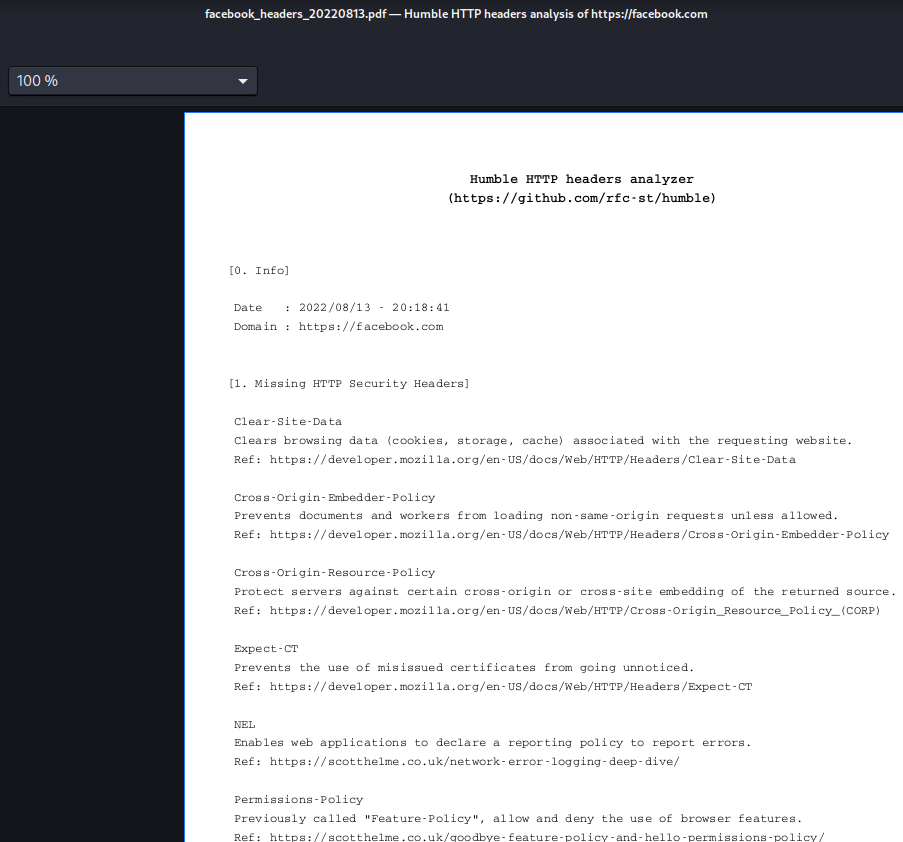
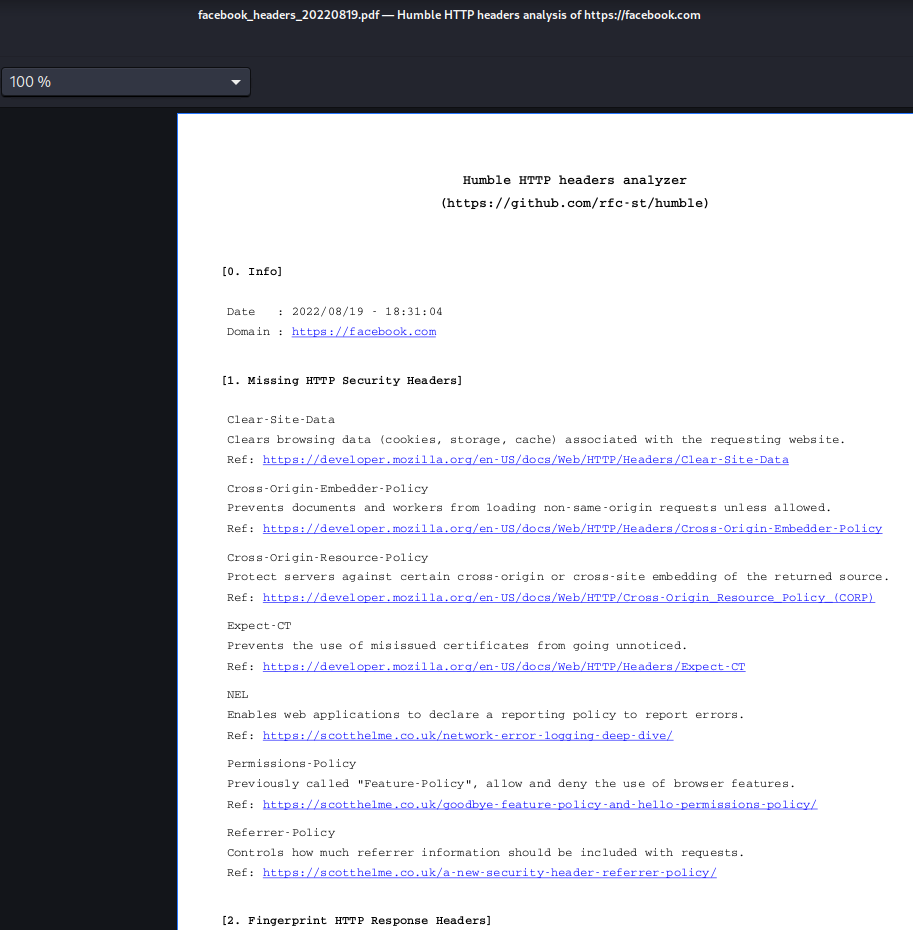
Update PDF sample & screenshot.

diff --git a/README.md b/README.md
@@ -72,7 +72,7 @@ HTTP Headers Analyzer<br />
 <img src="https://github.com/rfc-st/humble/blob/master/screenshots/humble.PNG" alt="Full analysis" width=70% height=70%>
 </p>
 <br />
-.: Analysis exported to PDF. <a href="https://github.com/rfc-st/humble/raw/master/samples/facebook_headers_20220813.pdf">Example.</a><br />
+.: Analysis exported to PDF. <a href="https://github.com/rfc-st/humble/raw/master/samples/facebook_headers_20220819.pdf">Example.</a><br />
 <p></p>
 <p align="center">
 <img src="https://github.com/rfc-st/humble/blob/master/screenshots/humble_pdf_s.PNG" alt="Export analysis to PDF" width=70% height=70%>
